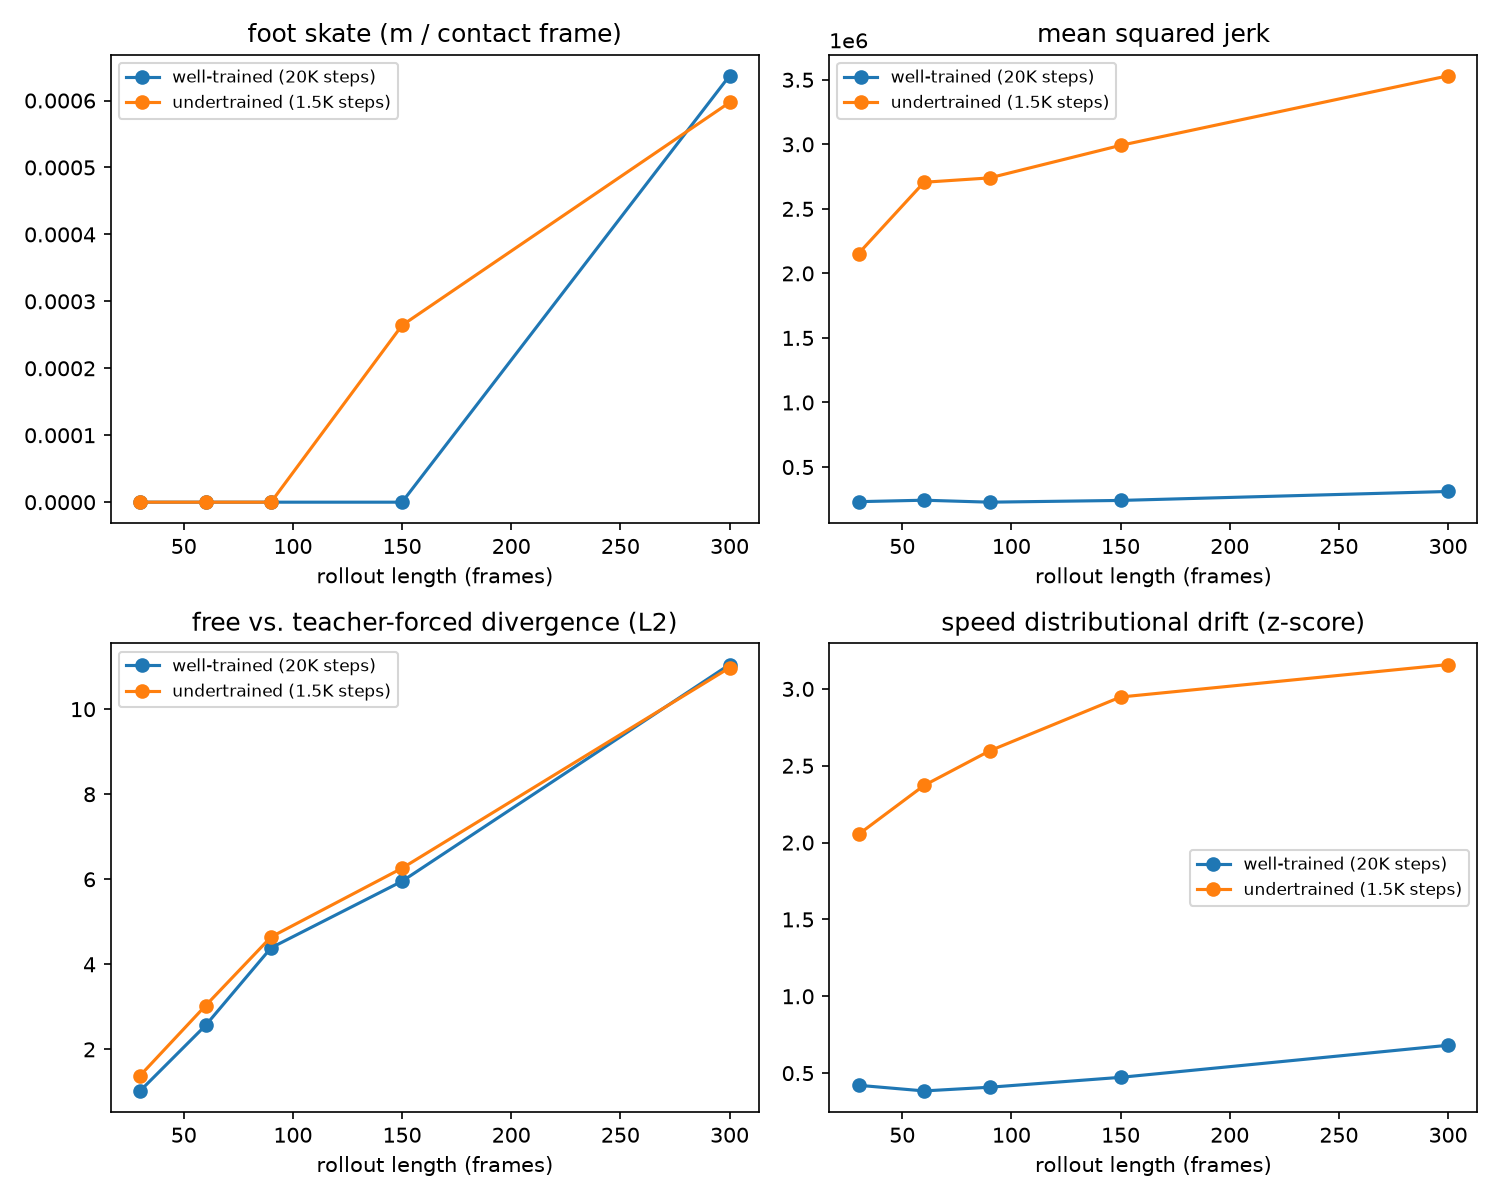
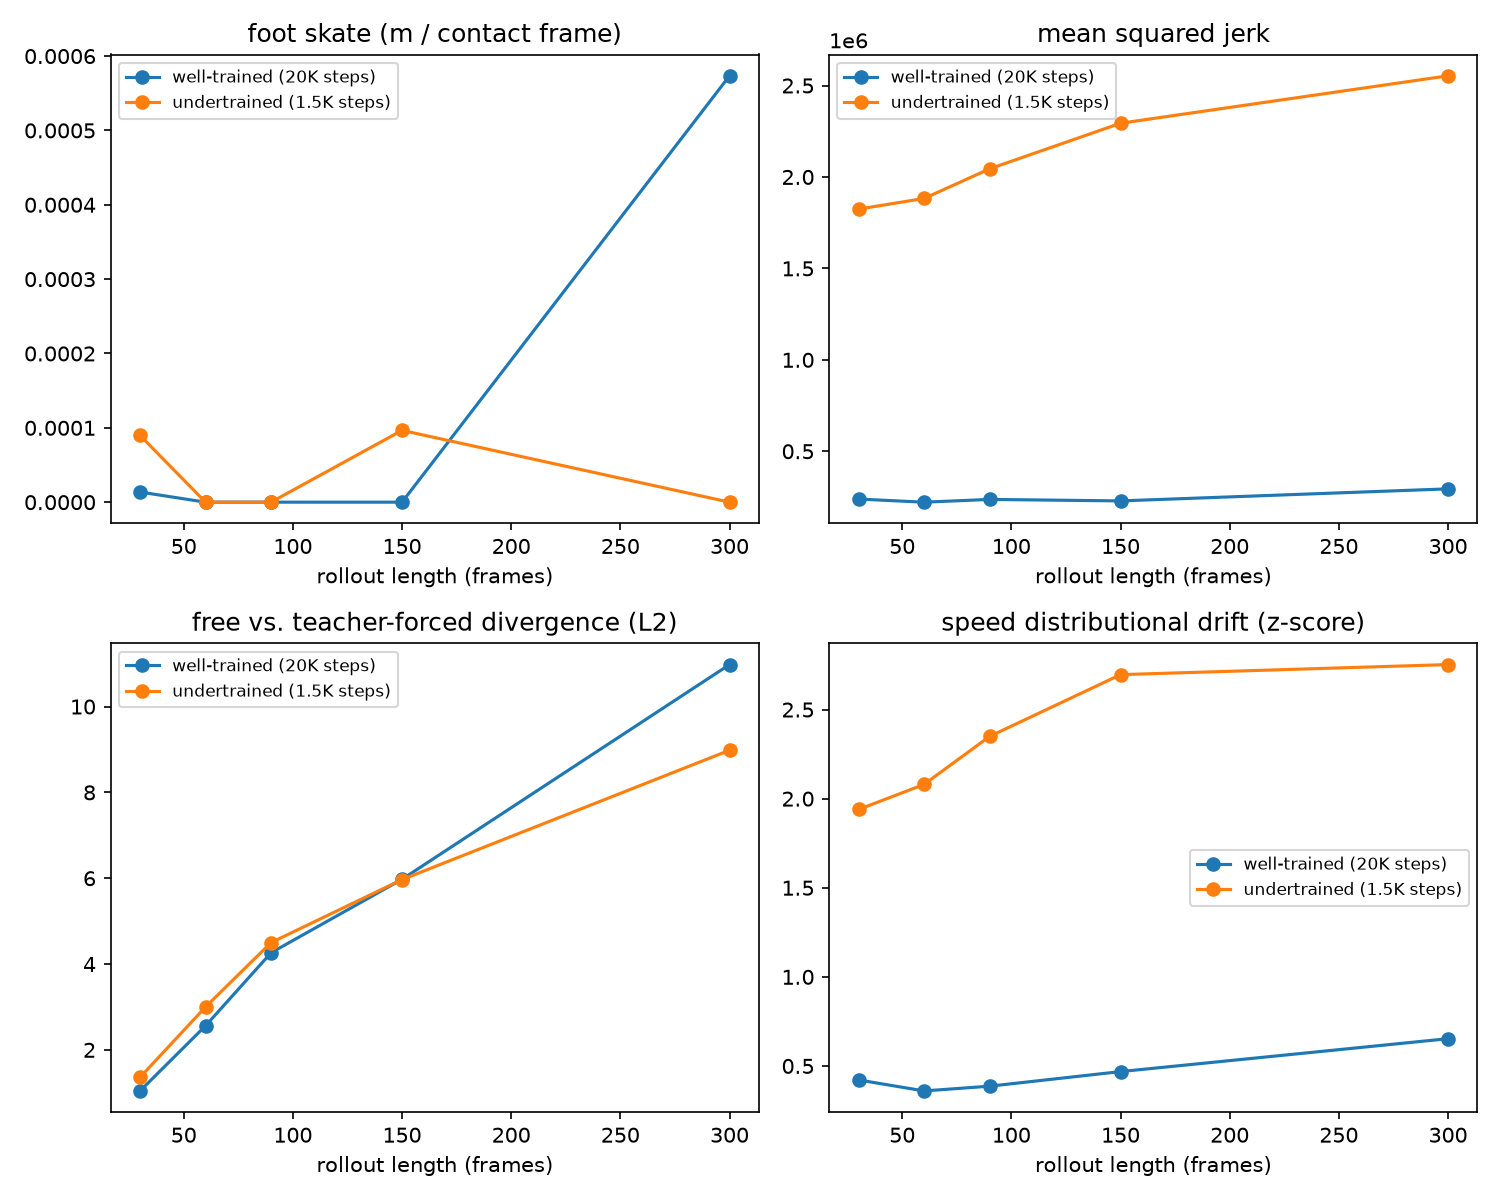
Re-run ablation under the matched eval protocol; add CI-overlap analysis
The original ablation compared models evaluated with different settings than the
headline results (single noise draw vs. the noise-averaged protocol used
elsewhere) -- not apples to apples, and vulnerable to exactly that criticism.
Re-ran the undertrained checkpoint's eval with the identical protocol (3 seed
windows x 3 noise draws, 9,363 trials, matching runs/real_v2/eval_report_v2).

Added confidence-interval overlap reporting to scripts/compare_runs.py
(build_comparison_report), covered by tests -- rather than eyeballing point
estimates on a chart, it states whether two runs' 95% bootstrap CIs (over held-out
subjects) actually overlap at each rollout length.

Result, under the matched protocol: jerk and distributional drift separate the two
models with non-overlapping CIs at every single rollout length (jerk ~7.6-10x,
speed drift ~4.2-6.1x, accel drift ~3.4-4.3x). Free-vs-teacher-forced divergence's
CIs overlap at every length -- the data does not support distinguishing the two
models on divergence alone. This is now a stated finding with the statistics to
back it, not a chart that happens to show two similar-looking lines.

diff --git a/scripts/compare_runs.py b/scripts/compare_runs.py
@@ -1,4 +1,7 @@
-"""Overlays horizon-eval CSVs from multiple runs on one set of plots.
+"""Overlays horizon-eval CSVs from multiple runs on one set of plots, and reports
+whether their 95% confidence intervals overlap at each rollout length -- the basis
+for actually claiming two runs' metrics do or don't differ, rather than eyeballing
+point estimates.
 
 Not part of the `flowmotion` package: this is a standalone analysis script for
 comparing runs against each other (e.g. a fully-trained model vs. a deliberately
@@ -6,9 +9,9 @@ undertrained one), not something the training/eval pipeline itself needs.
 
 Usage:
     uv run python scripts/compare_runs.py \
-        --run "well-trained (20K steps)=runs/real_v2/eval_report/horizon_eval.csv" \
-        --run "undertrained (1.5K steps)=runs/ablation_undertrained/eval_report/horizon_eval.csv" \
-        --out assets/ablation_comparison.png
+        --run "well-trained=runs/real_v2/eval_report_v2/horizon_eval.csv" \
+        --run "undertrained=runs/ablation_undertrained/eval_report_v2/horizon_eval.csv" \
+        --out assets/ablation_comparison.png --report-out assets/ablation_comparison.md
 """
 
 from __future__ import annotations
@@ -22,7 +25,7 @@ matplotlib.use("Agg")
 import matplotlib.pyplot as plt
 import pandas as pd
 
-from flowmotion.eval.report import PLOT_METRICS, PLOT_TITLES
+from flowmotion.eval.report import METRIC_COLS, PLOT_METRICS, PLOT_TITLES, bootstrap_subject_ci
 
 
 def _load_run(spec: str) -> tuple[str, pd.DataFrame]:
@@ -47,6 +50,49 @@ def build_comparison_figure(runs: list[tuple[str, pd.DataFrame]]):
     return fig
 
 
+def _intervals_overlap(a: tuple[float, float], b: tuple[float, float]) -> bool:
+    a_lo, a_hi = a
+    b_lo, b_hi = b
+    if a_lo != a_lo or b_lo != b_lo:  # nan
+        return True  # can't claim a difference without a defined interval
+    return not (a_hi < b_lo or b_hi < a_lo)
+
+
+def build_comparison_report(
+    runs: list[tuple[str, pd.DataFrame]], metric_cols: list[str] | None = None
+) -> str:
+    """For each metric and rollout length, each run's mean + 95% bootstrap CI (over
+    held-out subjects), and whether the two runs' CIs overlap -- overlap means the data
+    doesn't support claiming the runs differ on that metric at that length, non-overlap
+    means it does."""
+    metric_cols = metric_cols or METRIC_COLS
+    if len(runs) != 2:
+        raise ValueError("overlap reporting is defined for exactly 2 runs")
+    (label_a, df_a), (label_b, df_b) = runs
+
+    lines = [f"# Comparison: {label_a} vs. {label_b}", ""]
+    for metric in metric_cols:
+        ci_a = bootstrap_subject_ci(df_a, metric)
+        ci_b = bootstrap_subject_ci(df_b, metric)
+        lengths = sorted(set(ci_a) & set(ci_b))
+        if not lengths:
+            continue
+        lines.append(f"## {metric}")
+        lines.append(f"| length | {label_a} | {label_b} | 95% CIs overlap |")
+        lines.append("|---|---|---|---|")
+        for length in lengths:
+            mean_a = df_a.loc[df_a["rollout_length"] == length, metric].mean()
+            mean_b = df_b.loc[df_b["rollout_length"] == length, metric].mean()
+            overlap = _intervals_overlap(ci_a[length], ci_b[length])
+            lines.append(
+                f"| {length} | {mean_a:.4g} [{ci_a[length][0]:.4g}, {ci_a[length][1]:.4g}] "
+                f"| {mean_b:.4g} [{ci_b[length][0]:.4g}, {ci_b[length][1]:.4g}] "
+                f"| {'yes' if overlap else '**no**'} |"
+            )
+        lines.append("")
+    return "\n".join(lines)
+
+
 def main() -> None:
     parser = argparse.ArgumentParser(description=__doc__)
     parser.add_argument(
@@ -57,6 +103,7 @@ def main() -> None:
         help="label=path/to/horizon_eval.csv (repeatable)",
     )
     parser.add_argument("--out", required=True)
+    parser.add_argument("--report-out", default=None)
     args = parser.parse_args()
 
     runs = [_load_run(spec) for spec in args.runs]
@@ -67,6 +114,15 @@ def main() -> None:
     fig.savefig(out_path, dpi=150)
     plt.close(fig)
     print(f"wrote comparison plot to {out_path}")
+
+    if len(runs) == 2:
+        report = build_comparison_report(runs)
+        print(report)
+        if args.report_out:
+            report_path = Path(args.report_out)
+            report_path.parent.mkdir(parents=True, exist_ok=True)
+            report_path.write_text(report)
+            print(f"wrote comparison report to {report_path}")
 
 
 if __name__ == "__main__":

diff --git a/tests/test_compare_runs.py b/tests/test_compare_runs.py
@@ -1,0 +1,64 @@
+"""Tests scripts/compare_runs.py's statistics -- it's not part of the installed
+package, but the CI-overlap logic is real statistical reasoning worth covering.
+"""
+
+from __future__ import annotations
+
+import sys
+from pathlib import Path
+
+import pandas as pd
+
+sys.path.insert(0, str(Path(__file__).parent.parent / "scripts"))
+from compare_runs import _intervals_overlap, build_comparison_report  # noqa: E402
+
+
+def test_intervals_overlap_true_cases():
+    assert _intervals_overlap((0.0, 2.0), (1.0, 3.0))  # partial overlap
+    assert _intervals_overlap((0.0, 5.0), (1.0, 2.0))  # one contains the other
+    assert _intervals_overlap((0.0, 1.0), (1.0, 2.0))  # touching at the boundary
+
+
+def test_intervals_overlap_false_case():
+    assert not _intervals_overlap((0.0, 1.0), (2.0, 3.0))
+
+
+def test_intervals_overlap_nan_defaults_to_overlap():
+    nan = float("nan")
+    assert _intervals_overlap((nan, nan), (0.0, 1.0))
+
+
+def _fake_df(subject_means: dict[str, float], rollout_length: int = 30) -> pd.DataFrame:
+    rows = []
+    for subject_id, mean in subject_means.items():
+        for offset in (-0.05, 0.0, 0.05):
+            rows.append(
+                {
+                    "subject_id": subject_id,
+                    "rollout_length": rollout_length,
+                    "skipped": False,
+                    "divergence_l2_mean": mean + offset,
+                    "divergence_l2_final": mean + offset,
+                    "jerk_mean_sq": 0.0,
+                    "foot_skate_mean": 0.0,
+                    "drift_speed_z": 0.0,
+                    "drift_accel_z": 0.0,
+                }
+            )
+    return pd.DataFrame(rows)
+
+
+def test_build_comparison_report_flags_a_clear_difference():
+    low = _fake_df({"s1": 1.0, "s2": 1.1, "s3": 0.9, "s4": 1.05, "s5": 0.95})
+    high = _fake_df({"s1": 10.0, "s2": 10.1, "s3": 9.9, "s4": 10.05, "s5": 9.95})
+    report = build_comparison_report(
+        [("low", low), ("high", high)], metric_cols=["divergence_l2_mean"]
+    )
+    assert "**no**" in report  # CIs should not overlap given the large, tight separation
+
+
+def test_build_comparison_report_does_not_flag_indistinguishable_runs():
+    a = _fake_df({"s1": 1.0, "s2": 1.1, "s3": 0.9, "s4": 1.05, "s5": 0.95})
+    b = _fake_df({"s1": 1.02, "s2": 1.08, "s3": 0.93, "s4": 1.0, "s5": 0.98})
+    report = build_comparison_report([("a", a), ("b", b)], metric_cols=["divergence_l2_mean"])
+    assert "**no**" not in report

diff --git a/README.md b/README.md
@@ -267,22 +267,32 @@ to ~0.
 
 **Ablation.** Same command as above with `--steps 1500` in place of `20000`,
 otherwise identical (same data, architecture, seed — so the held-out split is
-unchanged). Comparing the two models' evaluations on the same held-out set:
+unchanged), evaluated with the identical matched protocol used for the results
+above (3 seed windows × 3 noise draws, 9,363 trials each). Comparing the two
+models' evaluations, with 95% bootstrap CIs over held-out subjects at each length
+(`scripts/compare_runs.py`, full table in `assets/ablation_comparison.md`):
 
 ![Well-trained vs. undertrained](assets/ablation_comparison.png)
 
-| Metric (mean across lengths) | 20K steps | 1.5K steps | ratio |
-|---|---|---|---|
-| jerk (mean squared) | ~2.5×10⁵ | ~2.8×10⁶ | ~11× |
-| distributional drift (speed z-score) | ~0.47 | ~2.6 | ~5.6× |
-| free-vs-teacher-forced divergence (range) | 1.02–11.05 | 1.38–10.98 | ~1.0–1.35× |
+| Metric | 95% CIs overlap at any length? |
+|---|---|
+| jerk (mean squared) | no — separated by ~7.6–10.0× at every length, 30 through 300 |
+| distributional drift (speed z-score) | no — separated by ~4.2–6.1× at every length |
+| distributional drift (accel z-score) | no — separated by ~3.4–4.3× at every length |
+| free-vs-teacher-forced divergence (mean and final) | **yes — at every length** |
+| foot skate | yes (both near zero; uninformative given how rare contact events are) |
 
-Jerk and distributional drift separate the two models cleanly at every rollout length.
-Divergence — the metric this repository is built around — does not: both models
-converge to nearly the same value by length 300. At this scale, divergence appears to
-track rollout length more than training quality; jerk and drift are the more sensitive
-indicators here. This is reported as observed on this run, not as a general claim
-about the metric.
+Under this matched protocol, jerk and distributional drift distinguish the
+well-trained model from the undertrained one cleanly and consistently — not a
+single rollout length where their confidence intervals overlap. Divergence, the
+metric this repository is built around, does not: its intervals overlap at every
+length, meaning this evaluation cannot statistically distinguish the two models on
+divergence alone. That's a real finding, not an artifact of comparing mismatched
+protocols (the first pass at this ablation used a single noise draw and did show a
+mild divergence gap at short lengths, which is exactly the kind of appearance that
+noise averaging and CIs are for). At this scale, divergence appears to track
+rollout length more than training quality; jerk and drift are the sensitive
+indicators for training quality specifically.
 
 ## Limitations
 

diff --git a/assets/ablation_comparison.md b/assets/ablation_comparison.md
@@ -1,0 +1,55 @@
+# Comparison: well-trained (20K steps) vs. undertrained (1.5K steps)
+
+## foot_skate_mean
+| length | well-trained (20K steps) | undertrained (1.5K steps) | 95% CIs overlap |
+|---|---|---|---|
+| 30 | 1.362e-05 [0, 3.837e-05] | 8.974e-05 [0, 0.0002367] | yes |
+| 60 | 0 [0, 0] | 0 [0, 0] | yes |
+| 90 | 0 [0, 0] | 0 [0, 0] | yes |
+| 150 | 0 [0, 0] | 9.657e-05 [0, 0.0005762] | yes |
+| 300 | 0.0005734 [0, 0.0003566] | 0 [0, 0] | yes |
+
+## jerk_mean_sq
+| length | well-trained (20K steps) | undertrained (1.5K steps) | 95% CIs overlap |
+|---|---|---|---|
+| 30 | 2.386e+05 [2.009e+05, 4.944e+05] | 1.824e+06 [1.714e+06, 2.032e+06] | **no** |
+| 60 | 2.217e+05 [1.961e+05, 3.028e+05] | 1.882e+06 [1.804e+06, 2.083e+06] | **no** |
+| 90 | 2.368e+05 [1.953e+05, 3.421e+05] | 2.044e+06 [2.035e+06, 2.384e+06] | **no** |
+| 150 | 2.286e+05 [1.732e+05, 2.762e+05] | 2.294e+06 [2.365e+06, 2.765e+06] | **no** |
+| 300 | 2.945e+05 [2.205e+05, 3.84e+05] | 2.553e+06 [2.532e+06, 3.293e+06] | **no** |
+
+## drift_speed_z
+| length | well-trained (20K steps) | undertrained (1.5K steps) | 95% CIs overlap |
+|---|---|---|---|
+| 30 | 0.4214 [0.3741, 0.7502] | 1.939 [1.874, 2.057] | **no** |
+| 60 | 0.3598 [0.2978, 0.6269] | 2.08 [2.027, 2.206] | **no** |
+| 90 | 0.3863 [0.2721, 0.5657] | 2.349 [2.341, 2.555] | **no** |
+| 150 | 0.4683 [0.2521, 0.5197] | 2.696 [2.71, 2.917] | **no** |
+| 300 | 0.6529 [0.4054, 0.8019] | 2.753 [2.739, 3.035] | **no** |
+
+## drift_accel_z
+| length | well-trained (20K steps) | undertrained (1.5K steps) | 95% CIs overlap |
+|---|---|---|---|
+| 30 | 2.412 [2.315, 2.856] | 8.21 [7.97, 8.569] | **no** |
+| 60 | 2.22 [2.105, 2.541] | 8.693 [8.518, 9.118] | **no** |
+| 90 | 2.272 [2.042, 2.492] | 9.596 [9.565, 10.37] | **no** |
+| 150 | 2.501 [1.99, 2.458] | 10.71 [10.83, 11.62] | **no** |
+| 300 | 2.932 [2.304, 3.086] | 10.85 [10.84, 12.05] | **no** |
+
+## divergence_l2_mean
+| length | well-trained (20K steps) | undertrained (1.5K steps) | 95% CIs overlap |
+|---|---|---|---|
+| 30 | 1.043 [0.9889, 1.324] | 1.36 [1.289, 1.633] | yes |
+| 60 | 2.561 [2.434, 3.383] | 3 [2.755, 3.7] | yes |
+| 90 | 4.262 [3.97, 5.579] | 4.499 [4.055, 5.361] | yes |
+| 150 | 5.975 [5.575, 10.1] | 5.968 [5.379, 9.003] | yes |
+| 300 | 10.98 [9.438, 19.82] | 8.982 [8.708, 11.74] | yes |
+
+## divergence_l2_final
+| length | well-trained (20K steps) | undertrained (1.5K steps) | 95% CIs overlap |
+|---|---|---|---|
+| 30 | 2.133 [2.006, 2.858] | 2.594 [2.434, 3.212] | yes |
+| 60 | 5.051 [4.57, 7.173] | 5.498 [4.806, 6.881] | yes |
+| 90 | 7.877 [6.644, 10.75] | 7.771 [6.579, 9.288] | yes |
+| 150 | 10.31 [8.21, 18.87] | 9.718 [8.263, 16.27] | yes |
+| 300 | 20.02 [15.33, 30.59] | 13.12 [12.96, 15.84] | yes |
